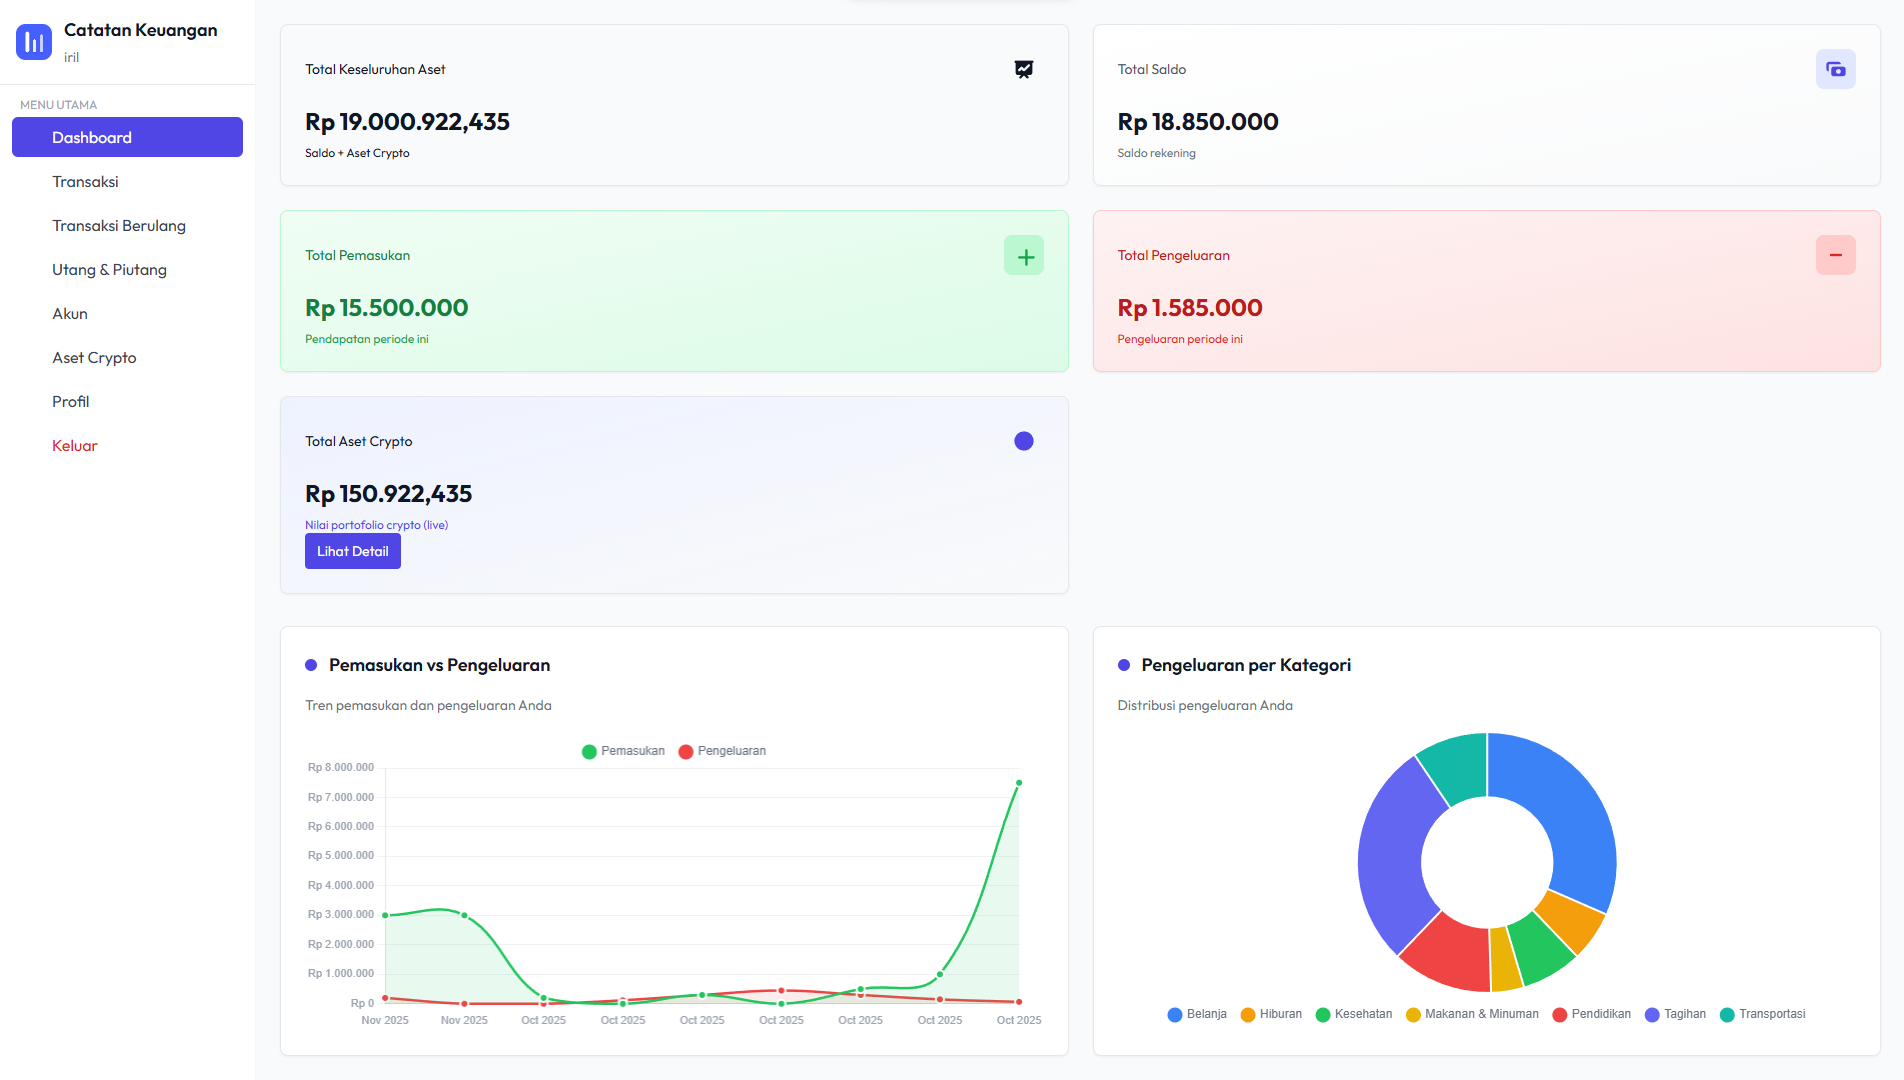
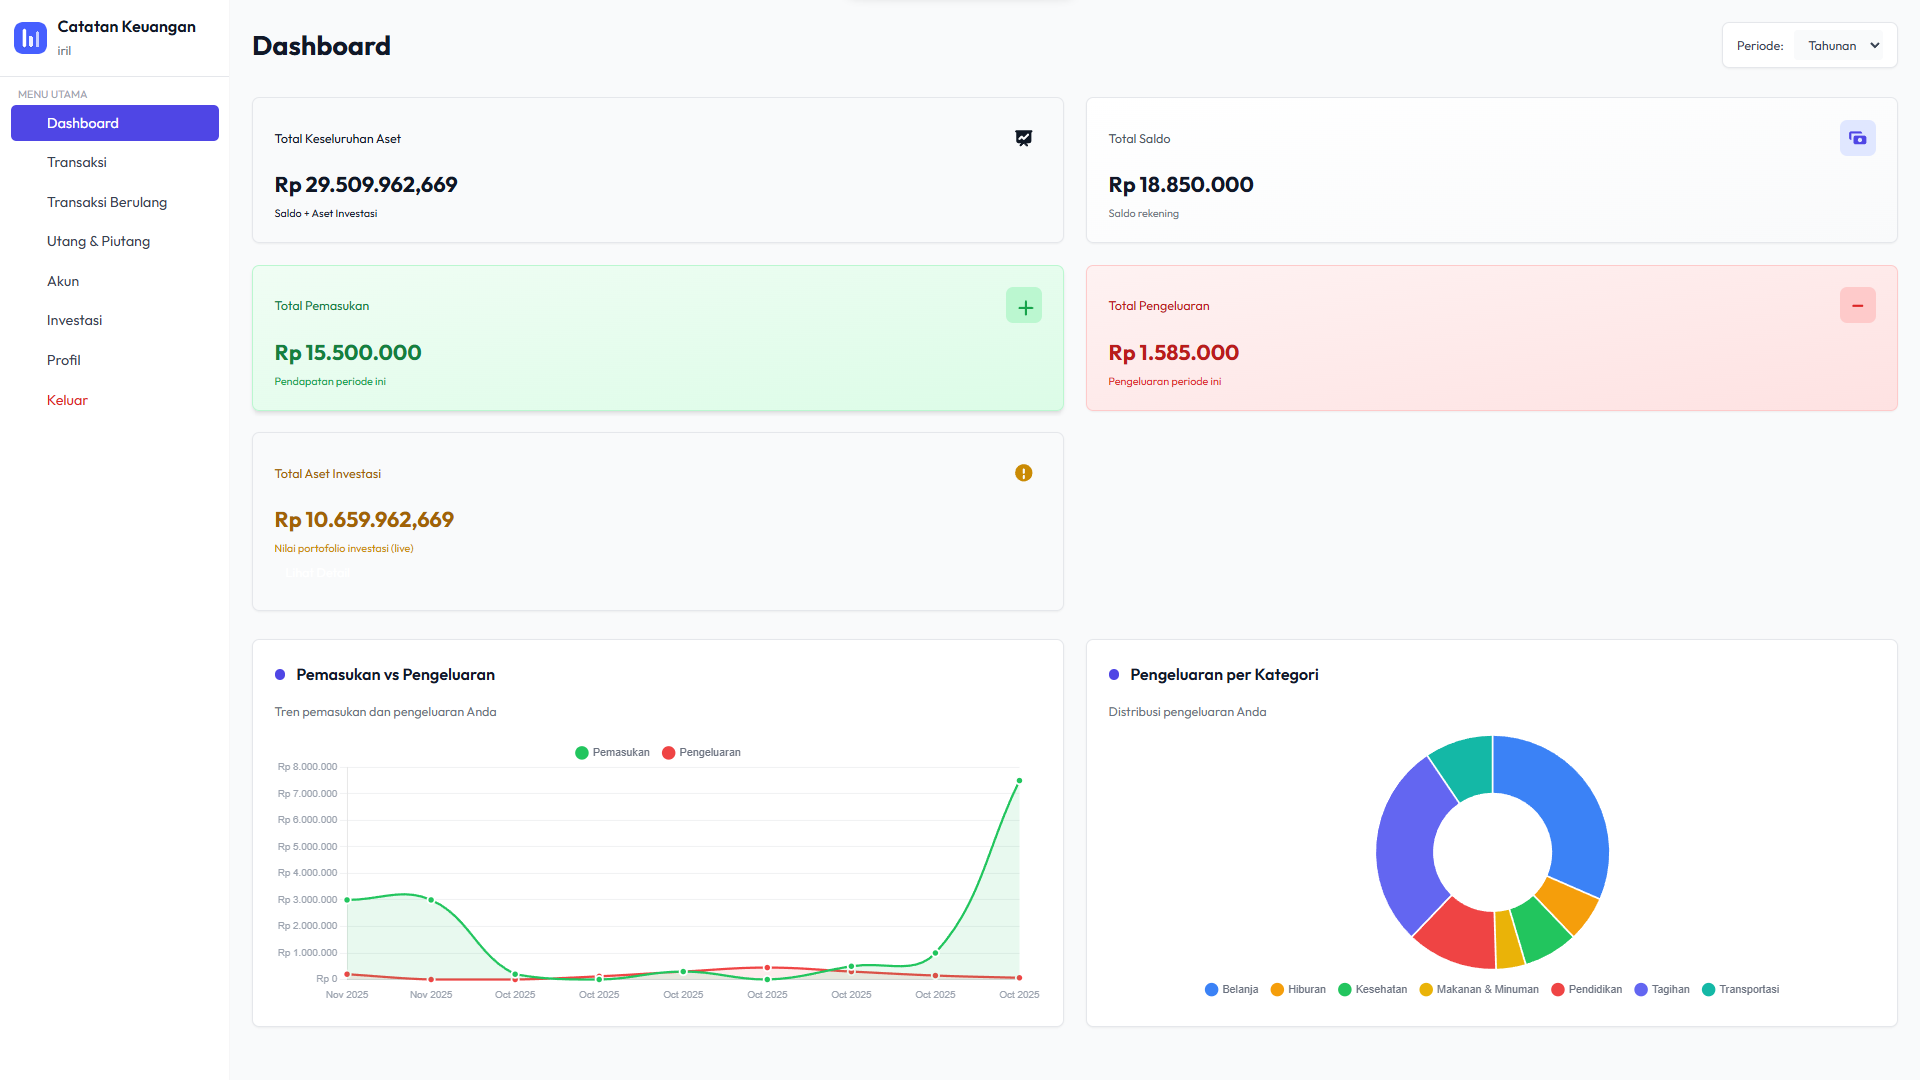
README.md

diff --git a/README.md b/README.md
@@ -1,82 +1,224 @@
-# Financial-App
+# 💰 Financial App
 
-## Deskripsi  
-Financial-App adalah aplikasi untuk membantu pengguna mengelola keuangan pribadi / finansial — mencatat pemasukan & pengeluaran, mengelola data keuangan, dan memudahkan pengguna dalam melihat ringkasan finansial.  
+> Aplikasi manajemen keuangan pribadi lengkap dengan fitur transaksi, investasi crypto & emas, hutang piutang, dan rekening bank.
 
-## Fitur Utama  
-- Tambah pemasukan & pengeluaran  
-- Simpan data transaksi (tanggal, kategori, nominal, deskripsi)  
-- Melihat daftar transaksi  
-- Fitur edit / hapus transaksi  
-- Ringkasan keuangan (misalnya total pemasukan, total pengeluaran, saldo bersih)  
-- (Opsional) Filter / pencarian berdasarkan tanggal atau kategori  
+[![Node.js](https://img.shields.io/badge/Node.js-16%2B-green.svg)](https://nodejs.org/)
+[![Express](https://img.shields.io/badge/Express-4.21.2-blue.svg)](https://expressjs.com/)
+[![MySQL](https://img.shields.io/badge/MySQL-8.0-orange.svg)](https://www.mysql.com/)
+[![Tailwind CSS](https://img.shields.io/badge/Tailwind-3.4.8-38bdf8.svg)](https://tailwindcss.com/)
 
-## Teknologi / Stack  
-- Node.js & Express (backend)  
-- EJS / HTML + CSS + JS (frontend)  
-- Database: MySQL
-- Struktur folder: `src/`, `routes/`, `views/`, `public/`, dll.  
+## 📸 Screenshot
 
-## Investasi (Crypto & Emas)
-Modul investasi memungkinkan penyimpanan aset crypto (provider: CoinGecko) dan emas (provider: MetalPriceAPI). Data aset tersimpan di tabel `investment_assets`, sedangkan kepemilikan pengguna di `investment_portfolio`.
+<div align="center">
+  <img src="public/images/template/Screenshot/1.png" alt="Dashboard" width="45%">
+  <img src="public/images/template/Screenshot/2.png" alt="Transactions" width="45%">
+  <img src="public/images/template/Screenshot/3.png" alt="Investments" width="45%">
+  <img src="public/images/template/Screenshot/4.png" alt="Admin Panel" width="45%">
+</div>
 
-### Harga Realtime
-- Crypto: diambil dari CoinGecko endpoint `simple/price` (IDR & USD).
-- Emas: diambil dari MetalPriceAPI endpoint:
-	`https://api.metalpriceapi.com/v1/latest?api_key=METALAPI_KEY&base=USD&symbols=XAU`
-	Logika harga USD per troy ounce: `1 / rates.XAU` sesuai spesifikasi.
+## ✨ Fitur Utama
 
-### Konversi IDR
-- Menggunakan `USD_IDR_RATE` dari `.env` jika tersedia.
-- Jika tidak ada, fallback ambil kurs dari `https://api.exchangerate.host/latest?base=USD&symbols=IDR`.
-- Jika itu gagal, fallback nilai tetap 15000.
+### 📊 Dashboard & Transaksi
+- **Dashboard Interaktif** - Visualisasi keuangan dengan grafik dan ringkasan realtime
+- **Manajemen Transaksi** - Catat pemasukan & pengeluaran dengan kategori
+- **Laporan Transaksi** - Export ke Excel/PDF dengan filter tanggal
+- **Transaksi Berulang** - Otomasi pencatatan transaksi rutin (bulanan/harian)
 
-### Variabel Lingkungan
-Tambahkan ke file `.env` (jangan commit ke repo):
+### 💼 Investasi (Crypto & Emas)
+- **Portofolio Investasi** - Kelola aset crypto (Bitcoin, Ethereum, dll) dan emas
+- **Harga Realtime** - Integrasi dengan CoinGecko API & MetalPriceAPI
+- **Multi Unit** - Input dalam Coin/Gram/Troy Ounce dengan konversi otomatis
+- **Cache Harga Emas** - Sistem caching 24 jam untuk efisiensi API
+
+### 🏦 Rekening & Hutang Piutang
+- **Multi Akun** - Kelola berbagai rekening bank (saldo, mutasi)
+- **Hutang & Piutang** - Tracking pembayaran dengan status dan kategori
+- **Pembayaran Cicilan** - Catat pembayaran parsial dengan riwayat
+
+### 👨💼 Admin Panel
+- **Manajemen User** - CRUD users dengan role (admin/user)
+- **Master Data** - Kelola kategori, metode pembayaran, provider investasi
+- **Gold Cache Admin** - Monitor dan refresh cache harga emas
+
+## 🛠 Teknologi
+
+**Backend:**
+- Node.js + Express.js
+- MySQL2 (Database)
+- express-session (Authentication)
+- bcryptjs (Password hashing)
+- dotenv (Environment variables)
+
+**Frontend:**
+- EJS (Templating)
+- Tailwind CSS (Styling)
+- Chart.js (Visualisasi)
+- Axios (HTTP client)
+
+**API Integrasi:**
+- CoinGecko API - Harga crypto realtime
+- MetalPriceAPI - Harga emas (XAU/USD)
+- ExchangeRate.host - Kurs USD→IDR
+
+## 📋 Persyaratan Sistem
+
+- **Node.js** >= 16.x
+- **MySQL** >= 8.0
+- **npm** >= 8.x
+
+## 🚀 Instalasi & Setup
+
+### 1. Clone Repository
+```bash
+git clone https://github.com/kaizeenn/financial-app.git
+cd financial-app
 ```
-METALAPI_KEY=YOUR_METALPRICEAPI_KEY
-USD_IDR_RATE=15500        # opsional, untuk konversi cepat
-```
-`GOLDAPI_TOKEN` sudah tidak lagi digunakan setelah migrasi ke MetalPriceAPI (hapus dari .env bila masih ada).
 
-### Contoh Respons Harga Emas
-```
-{
-	"usd": 2024.50,
-	"idr": 30367500,
-	"rate": 0.0004941
-}
+### 2. Install Dependencies
+```bash
+npm install
 ```
 
-### Endpoint Harga Aset
-`GET /invest/get-price?asset_id=<id>`
-- Mengembalikan JSON price realtime untuk aset crypto atau emas.
+### 3. Setup Database
+```sql
+-- Buat database
+CREATE DATABASE catatan;
 
-### Satuan Input
-- Crypto disimpan dalam satuan koin.
-- Emas disimpan dalam satuan troy ounce; jika pengguna input gram, sistem otomatis konversi (1 ozt = 31.1034768 g). Kolom `input_unit` menyimpan satuan asli yang diinput.
+-- Import schema dari file sql/catatan.sql
+mysql -u root -p catatan < sql/catatan.sql
+```
 
-## Migrasi GoldAPI ke MetalPriceAPI
-Gunakan skrip: `node scripts/migrate_gold_to_metal.js`
-Langkah yang dilakukan:
-- Menambahkan kolom `input_unit` (jika belum ada) ke tabel `investment_portfolio`.
-- Mengubah semua baris `provider_source='goldapi'` menjadi `yellow_metal`.
-- Bersihkan `GOLDAPI_TOKEN` dari `.env`.
+### 4. Konfigurasi Environment
+Buat file `.env` di root project:
+```env
+# Database
+DB_HOST=localhost
+DB_USER=root
+DB_PASSWORD=
+DB_NAME=catatan
 
-Perintah:
+# API Keys
+METALAPI_KEY=your_metalpriceapi_key_here
+USD_IDR_RATE=15500
+
+# Session (optional)
+SESSION_SECRET=your_secret_key_here
+```
+
+### 5. Build CSS (Development)
+```bash
+npm run build:css
+# atau watch mode:
+npm run watch:css
+```
+
+### 6. Jalankan Aplikasi
+```bash
+npm start
+# atau development mode:
+npm run dev
+```
+
+Aplikasi berjalan di: **http://localhost:3000**
+
+## 🔑 Default Login
+
+**Admin:**
+- Username: `atmin`
+- Password: `atmin123`
+
+**User:**
+- Username: `iril`
+- Password: `iril123`
+
+## 📁 Struktur Folder
+
+```
+financial-app/
+├── bin/
+│   └── www                 # Entry point
+├── config/
+│   └── db.js              # Koneksi database
+├── controllers/           # Business logic
+│   ├── investmentController.js
+│   └── ...
+├── middleware/            # Auth & role middleware
+├── routes/               # Route handlers
+│   ├── admin.js
+│   ├── investmentRoutes.js
+│   └── ...
+├── services/             # External API services
+│   └── investmentPriceService.js
+├── views/                # EJS templates
+│   ├── admin/
+│   ├── user/
+│   ├── layout/
+│   └── partials/
+├── public/               # Static files
+│   ├── stylesheets/
+│   └── images/
+├── scripts/              # Utility scripts
+│   └── migrate_gold_to_metal.js
+└── sql/                  # Database schema
+    └── catatan.sql
+```
+
+## 🔧 Migrasi Database
+
+Jika upgrade dari GoldAPI ke MetalPriceAPI:
 ```bash
 node scripts/migrate_gold_to_metal.js
 ```
-Pastikan koneksi database di `config/db.js` sudah benar sebelum menjalankan.
 
-## Persyaratan (Requirements)  
-- Database MySQL
-- (Opsional) Paket npm: lihat `package.json`  
+## 📊 Fitur API
 
-## Instalasi & Setup Lokal  
-```bash
-git clone https://github.com/kaizeenn/financial-app.git  
-cd financial-app  
-npm install  
-# jika menggunakan database: konfigurasi koneksi di config / .env  
-npm start  
+### Endpoint Harga Investasi
+```http
+GET /invest/get-price?asset_id=<ID>
+```
+Response:
+```json
+{
+  "usd": 2024.50,
+  "idr": 31025000,
+  "rate": 0.0004941
+}
+```
+
+### Admin Gold Cache
+```http
+GET /admin/gold-cache        # View cache
+POST /admin/gold-cache/refresh  # Force refresh
+```
+
+## 🎨 Customization
+
+### Tambah Provider Investasi
+Edit `services/investmentPriceService.js`:
+```javascript
+case 'new_provider':
+  return await getNewProviderPrice();
+```
+
+### Ubah Tema
+Edit `tailwind.config.cjs` untuk custom color palette.
+
+## 🤝 Kontribusi
+
+Pull requests are welcome! Untuk perubahan besar, harap buka issue terlebih dahulu.
+
+## 📝 License
+
+[MIT](LICENSE)
+
+## 👤 Author
+
+**Kaizen**
+- GitHub: [@kaizeenn](https://github.com/kaizeenn)
+
+## 🙏 Acknowledgments
+
+- CoinGecko API untuk data crypto
+- MetalPriceAPI untuk harga emas
+- Chart.js untuk visualisasi data
+- Tailwind CSS untuk styling
